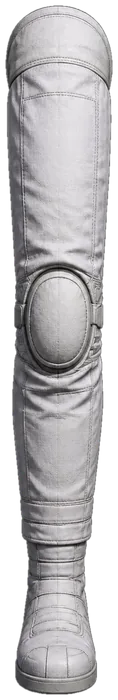
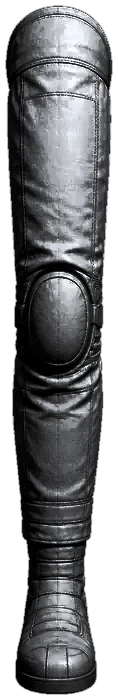
Match astronaut legs to torso/arms: regrade leg texture, widen legs, add shadow

diff --git a/src/components/younEEK/AstronautBody.jsx b/src/components/younEEK/AstronautBody.jsx
@@ -4,15 +4,17 @@ import {
 
 // Static astronaut (legs + torso) in the centre of the dial. The arms are the clock hands (ClockHands).
 export default function AstronautBody() {
-  const legTop = TORSO_Y + TORSO_H - 10;
+  const legTop = TORSO_Y + TORSO_H - 14;
   const leg = (dir) => (
     <image
       href="/astro-leg.webp"
-      x={CX + dir * 14 - LEG_W / 2}
+      x={CX + dir * 17 - LEG_W / 2}
       y={legTop}
       width={LEG_W}
       height={LEG_H}
-      transform={`rotate(${dir * -7} ${CX + dir * 14} ${legTop})`}
+      preserveAspectRatio="none"
+      filter="url(#astroShadow)"
+      transform={`rotate(${dir * -5} ${CX + dir * 17} ${legTop})`}
     />
   );
   return (
@@ -22,11 +24,14 @@ export default function AstronautBody() {
           <stop offset="0%" stopColor="#7CFF6B" stopOpacity="0.16" />
           <stop offset="100%" stopColor="#7CFF6B" stopOpacity="0" />
         </radialGradient>
+        <filter id="astroShadow" x="-30%" y="-10%" width="160%" height="130%">
+          <feDropShadow dx="0" dy="2" stdDeviation="2.5" floodColor="#000" floodOpacity="0.7" />
+        </filter>
       </defs>
       <circle cx={CX} cy={200} r="118" fill="url(#astroGlow)" />
       {leg(-1)}
       {leg(1)}
-      <image href="/astro-torso.webp" x={TORSO_X} y={TORSO_Y} width={TORSO_W} height={TORSO_H} />
+      <image filter="url(#astroShadow)" href="/astro-torso.webp" x={TORSO_X} y={TORSO_Y} width={TORSO_W} height={TORSO_H} />
     </svg>
   );
 }

diff --git a/src/components/younEEK/astronautGeometry.js b/src/components/younEEK/astronautGeometry.js
@@ -10,8 +10,9 @@ export const TORSO_X = CX - TORSO_W / 2;
 export const TORSO_Y = 90;
 
 // Legs (public/astro-leg.webp is 118x700)
-export const LEG_H = 90;
-export const LEG_W = LEG_H * (118 / 700);
+export const LEG_H = 82;
+// Wider than the raw aspect ratio so the legs have the same bulk as the torso (stretched with preserveAspectRatio=none).
+export const LEG_W = 21;
 
 // Shoulder pivot points: the arms (clock hands) rotate around these, not around the dial centre.
 export const SHOULDER_DX = 33;
